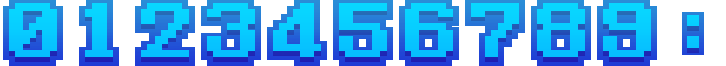
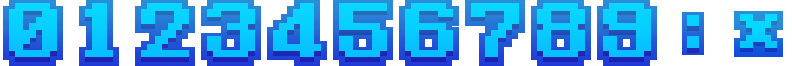
ラウンドが始まる際にカメラ移動を行う処理を追加 照準にプレイヤーと敵を登場させる処理を追加

diff --git a/src/IntoTheAbyss/RoundChangeEffect.cpp b/src/IntoTheAbyss/RoundChangeEffect.cpp
@@ -3,6 +3,7 @@
 #include"../Engine/DrawFunc.h"
 #include"../Engine/DrawFunc_FillTex.h"
 #include"../IntoTheAbyss/TexHandleMgr.h"
+#include"../IntoTheAbyss/ScrollMgr.h"
 
 RoundChangeEffect::RoundChangeEffect()
 {
@@ -60,11 +61,14 @@ void RoundChangeEffect::Start(const bool &LEFT_OR_RIGHT_FLAG)
 		fightData->size = { 5.0f,5.0f };
 
 
-		playerReticleData->honraiPos = { (1280.0f / 2.0f - 514 / 2.0f) - 50.0f,-100.0f };
-		playerReticleData->pos = { (1280.0f / 2.0f - 514 / 2.0f) - 50.0f,-100.0f };
+		Vec2<float> restartPos = { 860.0f-420.0f,-150.0f };
+		Vec2<float> restartPos2 = { 860.0f-120.0f,-150.0f };
+
+		playerReticleData->honraiPos = restartPos;
+		playerReticleData->pos = restartPos;
 		playerReticleData->size = { 2.0f,2.0f };
-		enemyReticleData->honraiPos = { (1280.0f / 2.0f + 514 / 2.0f) - 50.0f,-100.0f };
-		enemyReticleData->pos = { (1280.0f / 2.0f + 514 / 2.0f) - 50.0f,-100.0f };
+		enemyReticleData->honraiPos = restartPos2;
+		enemyReticleData->pos = restartPos2;
 		enemyReticleData->size = { 2.0f,2.0f };
 
 

diff --git a/src/IntoTheAbyss/Player.cpp b/src/IntoTheAbyss/Player.cpp
@@ -148,7 +148,9 @@ void Player::Init(const Vec2<float> &INIT_POS)
 	bulletHitBox->center = &centerPos;
 	bulletHitBox->radius = 10.0f;
 
-	size = { 3.0f,3.0f };
+	size = { 120.0f,120.0f };
+	sizeVel = 120.0f;
+	allowToMoveFlag = false;
 }
 
 void Player::Update(const vector<vector<int>> mapData, const Vec2<float> &bossPos)
@@ -156,9 +158,15 @@ void Player::Update(const vector<vector<int>> mapData, const Vec2<float> &bossPo
 
 	if (1.0f <= size.x && 1.0f <= size.y)
 	{
-		size.x -= 0.1f;
-		size.y -= 0.1f;
+		size.x = sizeVel / 80.0f;
+		size.y = sizeVel / 80.0f;
+		--sizeVel;
 		doorMoveUpDownFlag = true;
+	}
+	else
+	{
+		size = { 1.0f,1.0f };
+		allowToMoveFlag = true;
 	}
 
 

diff --git a/src/IntoTheAbyss/GameTimer.cpp b/src/IntoTheAbyss/GameTimer.cpp
@@ -11,9 +11,9 @@ GameTimer::GameTimer()
 	flame = -1;
 	timerPos = { 714,62 };
 
-	number.resize(11);
+	number.resize(12);
 	texSize = { 48,44 };
-	TexHandleMgr::LoadDivGraph("resource/ChainCombat/UI/num.png", 11, { 11, 1 }, number.data());
+	TexHandleMgr::LoadDivGraph("resource/ChainCombat/UI/num.png", 12, { 12, 1 }, number.data());
 
 }
 

diff --git a/src/IntoTheAbyss/ScrollMgr.cpp b/src/IntoTheAbyss/ScrollMgr.cpp
@@ -79,6 +79,7 @@ Vec2<float> ScrollMgr::Affect(const Vec2<float> &Pos)
 void ScrollMgr::Warp(const Vec2<float> POS)
 {
 	warpFlag = true;
+	honraiScrollAmount = { 0.0f,0.0f };
 	Vec2<float>startPos = CaluStartScrollLine(windowHalfSize - adjLine);
 	honraiScrollAmount = (POS + adjLine) - startPos;
 }

diff --git a/src/IntoTheAbyss/ScoreManager.cpp b/src/IntoTheAbyss/ScoreManager.cpp
@@ -6,7 +6,7 @@
 ScoreManager::ScoreManager()
 {
 	texSize = { 35,44 };
-	TexHandleMgr::LoadDivGraph("resource/ChainCombat/UI/num.png", 10, { 10, 1 }, number.data());
+	TexHandleMgr::LoadDivGraph("resource/ChainCombat/UI/num.png", 12, { 12, 1 }, number.data());
 }
 
 ScoreManager::~ScoreManager()

diff --git a/src/IntoTheAbyss/RoundChangeEffect.h b/src/IntoTheAbyss/RoundChangeEffect.h
@@ -67,6 +67,7 @@ private:
 
 public:
 	bool drawFightFlag;
+	bool initFlag;
 	std::unique_ptr<DrawData> playerReticleData, enemyReticleData;
 };
 
